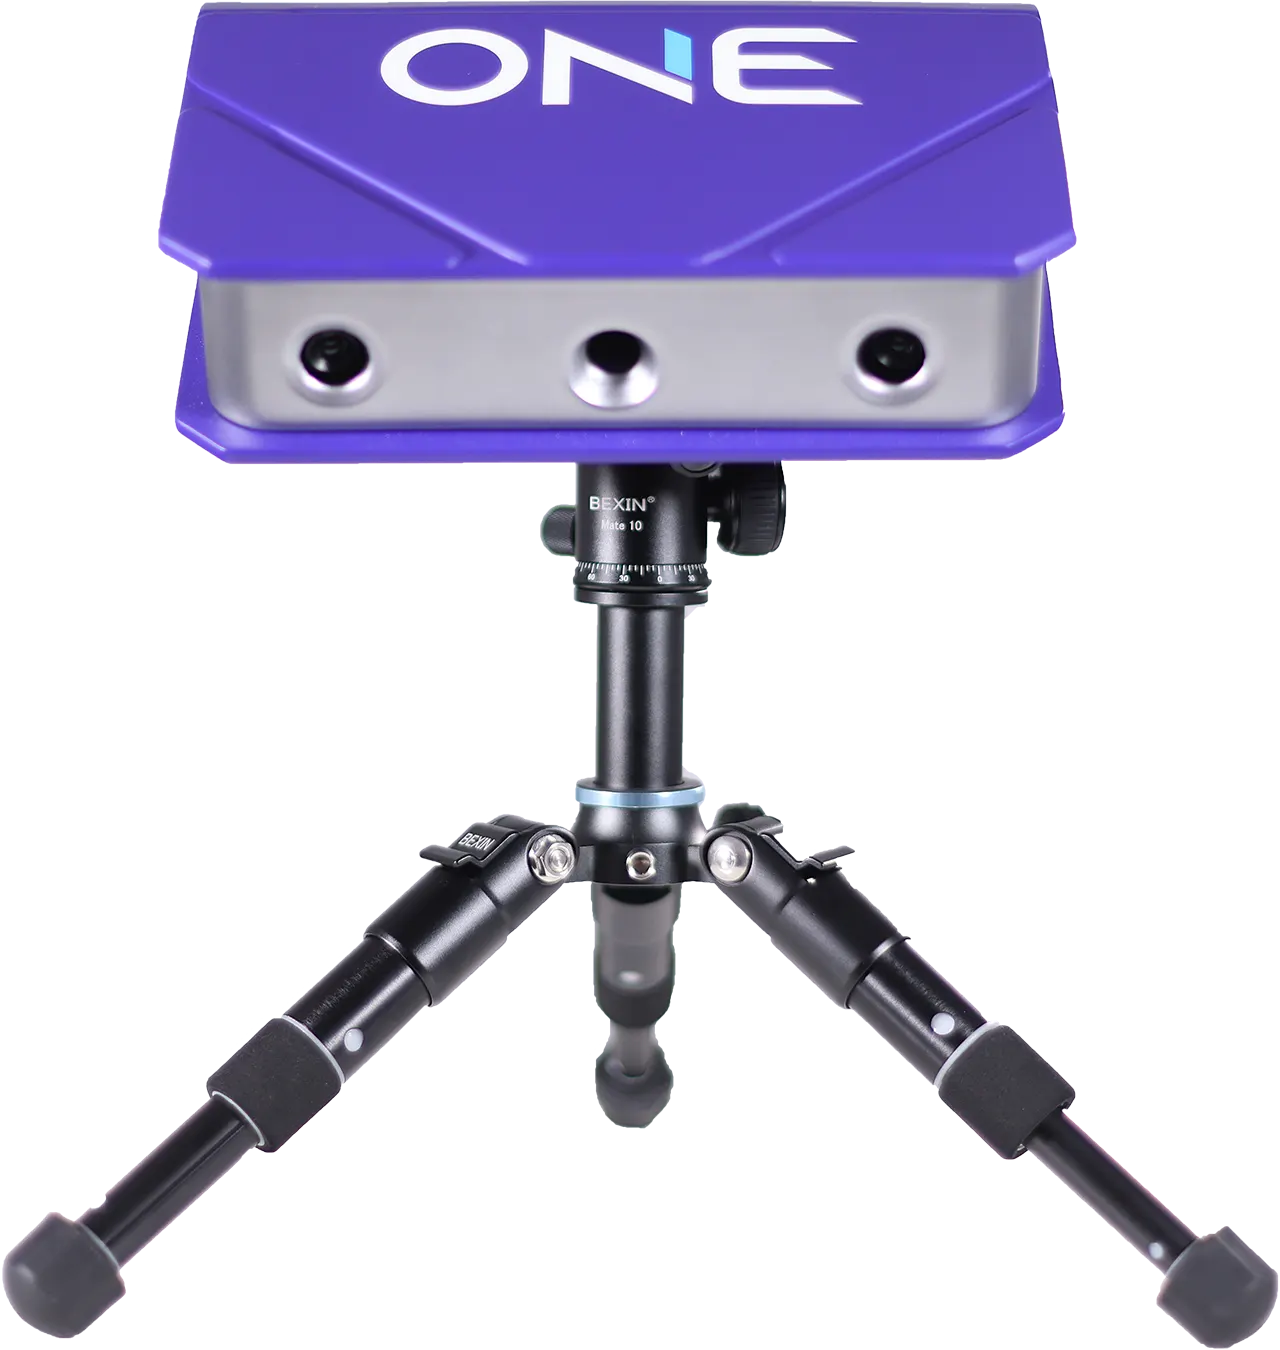
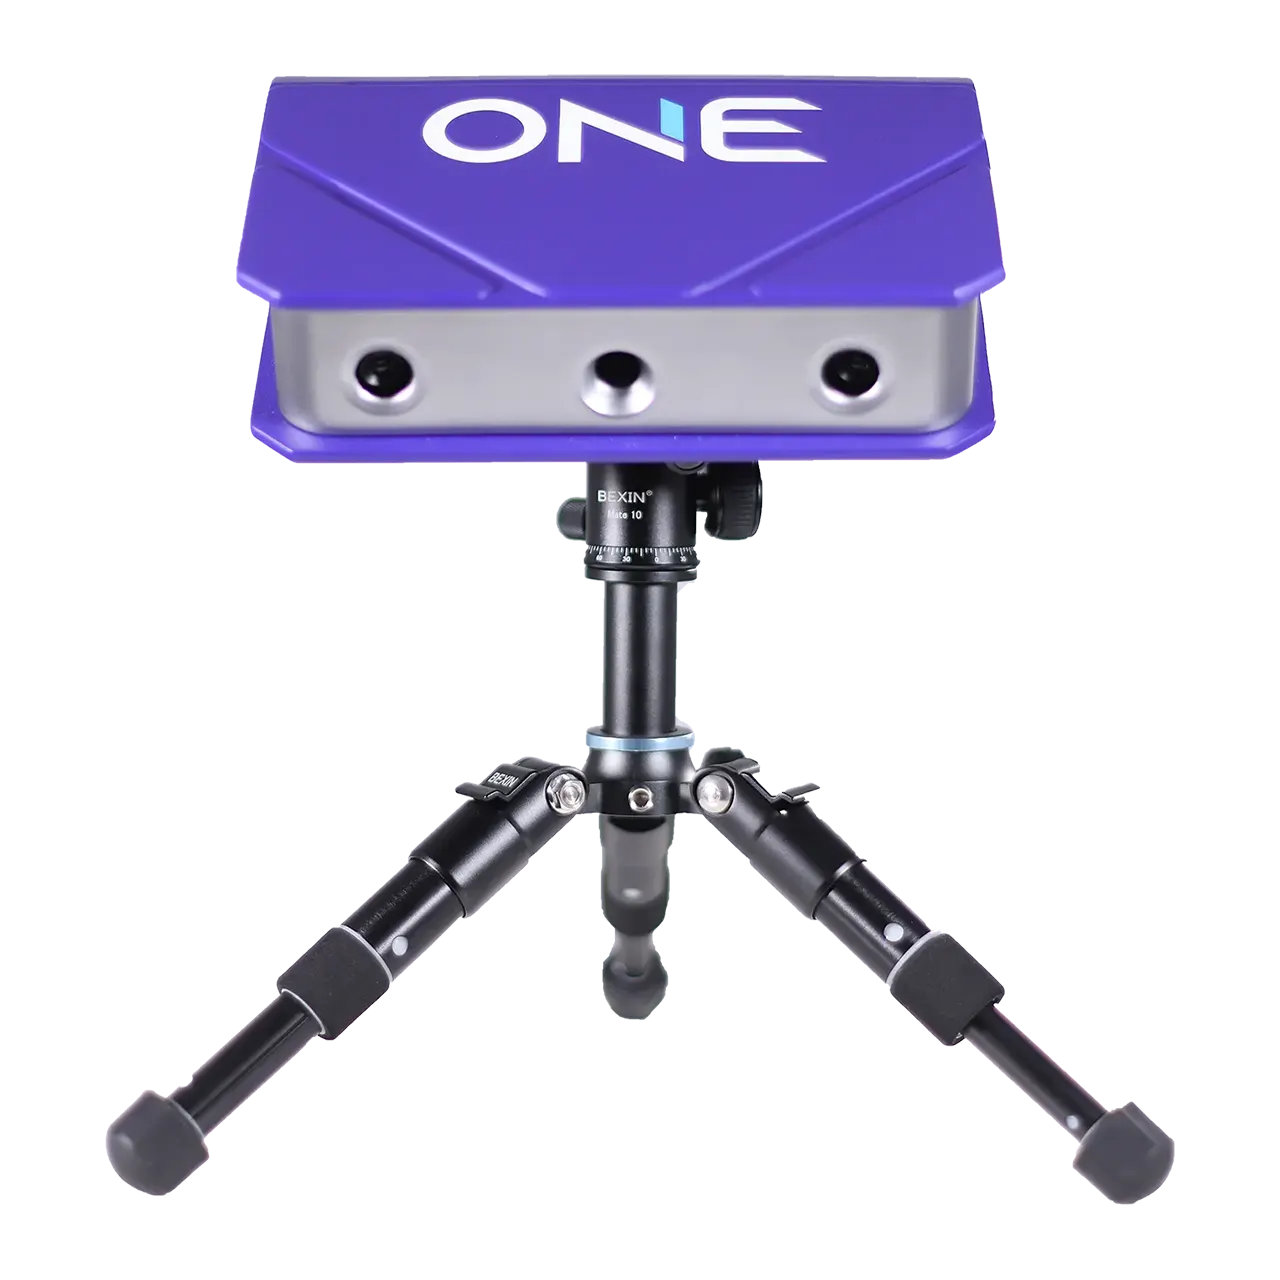
Cambios en imágenes

Changed region(s): [[0.0, 0.0, 1.0, 1.0]]

diff --git a/components/Escaneres.jsx b/components/Escaneres.jsx
@@ -157,7 +157,7 @@ export default function Escaneres() {
                           src={escaner.imagen}
                           fill
                           alt={escaner.titulo}
-                          className='mx-auto object-contain'
+                          className='mx-auto max-w-[78%] object-contain'
                         />
                         {/* <div className='absolute inset-0 left-0 top-0 flex items-center justify-center'>
                           <p className=''>{escaner.titulo}</p>
